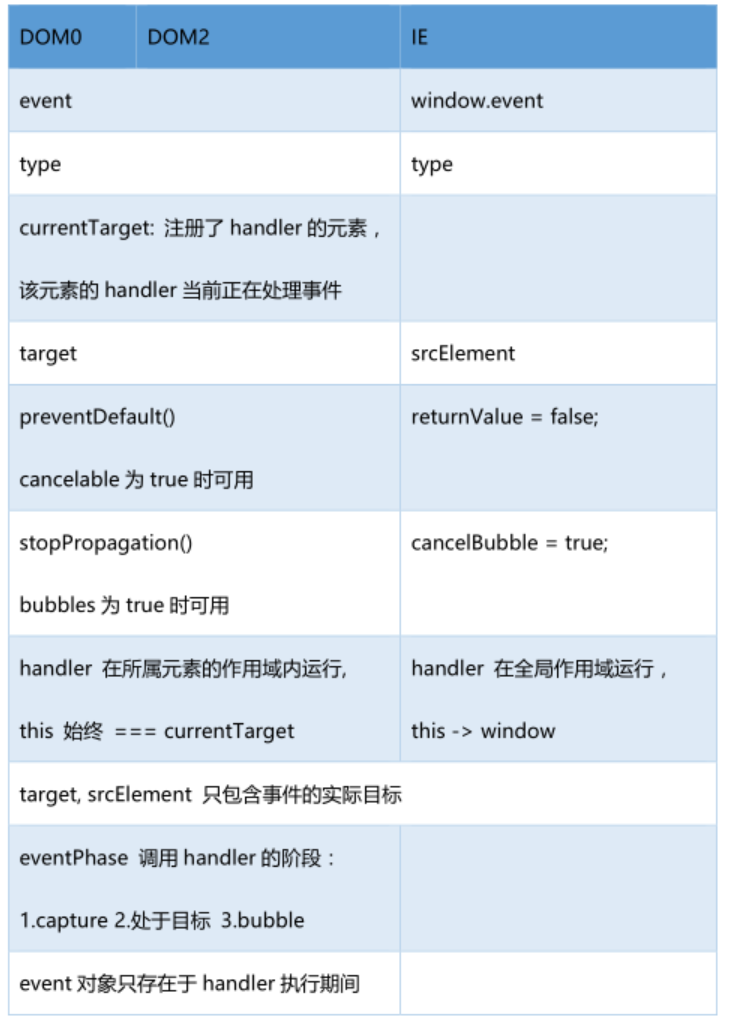
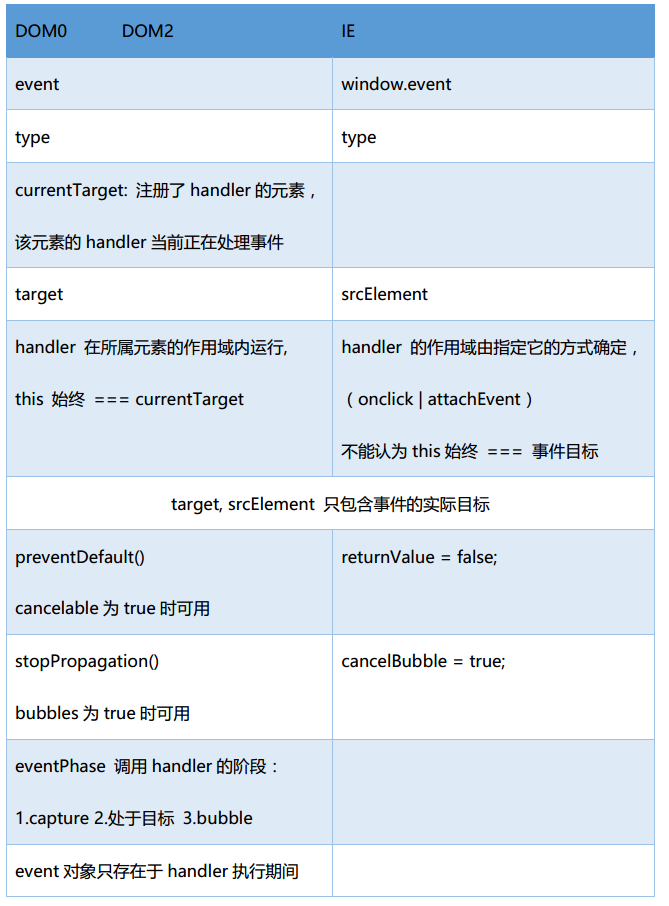
modified:   baiduProj/task30/readme.md 	modified:   practiceDemo/event/event model/readme.md 	modified:   practiceDemo/event/event.png 	modified:   practiceDemo/event/readme.md

Changed region(s): [[0.0, 0.0, 0.9865, 1.0], [0.5381, 0.9272, 0.568, 0.9581]]

diff --git a/baiduProj/task30/readme.md b/baiduProj/task30/readme.md
@@ -91,20 +91,22 @@
 
 * 点：`事件委托` `事件模拟`
     + 事件委托
-        - 为什么用事件委托
-            * 从内存、性能方面考虑
-            
-            > 1.在JS中，添加到页面上的 event handler 的数量直接关系到页面的整体运行性能：函数都是对象，会占用内存；内存中对象越多，性能越差。  
-              2.必须实现指定好所有 event handler 而导致的DOM访问次数，会延迟整个页面的交互就绪时间。
         - 事件委托是什么   
             利用 事件冒泡/捕获，在DOM树中尽量最高的层次上，只指定一个 handler，来管理某一类型的事件。
         - 适用于    
             所有用到按钮的事件（多数鼠标事件、键盘事件）。   
-            `click` `mousedown` `mouseup` `keydown` `keyup` `keypress`
-        - 优点
-            * document 对象很快就可以访问，只要可单击的元素出现在页面上，就可具备适当的功能
-            * 在页面中设置 event handler 所花的时间更少：只添加一个 handler 所需的DOM引用更少
-            * 整个页面所占内存少，能提升整体性能
+            `click` `mousedown` `mouseup` `keydown` `keyup` `keypress`   
+        - 优点（内存，时间）
+            1. 在JS中，添加到页面上的 event handler（即函数）也是对象，会占用内存；内存中对象越多，性能越差。  
+            2. 为DOM元素绑定 event handler，而导致的DOM访问次数，会影响页面的交互就绪时间。
+            3. 新增子对象时，不需要再次为其绑定 handler。
+            
+            总之，通过事件委托，可以减少 handler，从而减少内存占用；减少绑定 handler 导致的DOM访问次数，从而减少时间消耗。
+            
+            适用于在 ul 上代理所有 li 的事件；在 table 上代理所有 td 的事件。适用于动态添加的内容。
+            
+        - 缺点
+            在太高的层级上绑定，可能造成事件误判（所以，不要滥用咯）
         - 一段示例代码
             
                 function blurHandler(ev) {

diff --git a/practiceDemo/event/event model/readme.md b/practiceDemo/event/event model/readme.md
@@ -44,15 +44,21 @@
                     handlers[i].call(this, event);
                 }
     + [源码，来自上述博客](https://github.com/cardaminexhz/cardaminexhz.github.io/tree/master/practiceDemo/event/event model/demo.js)
-    + 增强：
+    + 增强：【TODO】
         - 事件冒泡
         - 出错后继续执行handler
         - 允许handler阻止进一步操作或和默认行为
+        - 比如触发响应函数时的上下文应该是什么，
+        触发响应函数的参数列表应该是什么，如果要求把调用trigger的参数列表都传到响应函数中还要考虑到吧arguments对象转化为纯数组才行等等。
 
 ***
 
 * 事件相关点整理
-    + 事件的三个阶段；在IE，W3C中的区别；绑定/解绑方法的异同 [here](https://github.com/cardaminexhz/cardaminexhz.github.io/tree/master/practiceDemo/event)
+    + 事件流：从页面中接收事件的顺序；`IE` `W3C(DOM2级)` [here](https://github.com/cardaminexhz/cardaminexhz.github.io/tree/master/practiceDemo/event)
+    + 事件处理程序的区别 `DOM0/2` `IE`
+        <img src="event-handler.png" width="660px" height="300px">
+    + 事件对象的区别 `DOM` `IE`
+    + 原生JS实现跨浏览器的事件处理程序 | 事件对象
     + 事件委托；原理，优缺点；原生JS实现事件委托，兼容浏览器 [here](https://github.com/cardaminexhz/cardaminexhz.github.io/tree/master/baiduProj/task30)
     + 原生JS实现事件模型
     + 模拟事件；事件如何派发？【TODO】

diff --git a/practiceDemo/event/readme.md b/practiceDemo/event/readme.md
@@ -96,7 +96,7 @@
 ***
 
 * 总结：  
-    <img src="event.png" width = "420" height = "600" alt="event.png" align=center />
+    <img src="event.png" width = "470px" height = "630px" alt="event.png" align=center />
     
     + preventDefault()
         e.g. 阻止链接的默认行为（被单击时，跳转到其href指定的url）
